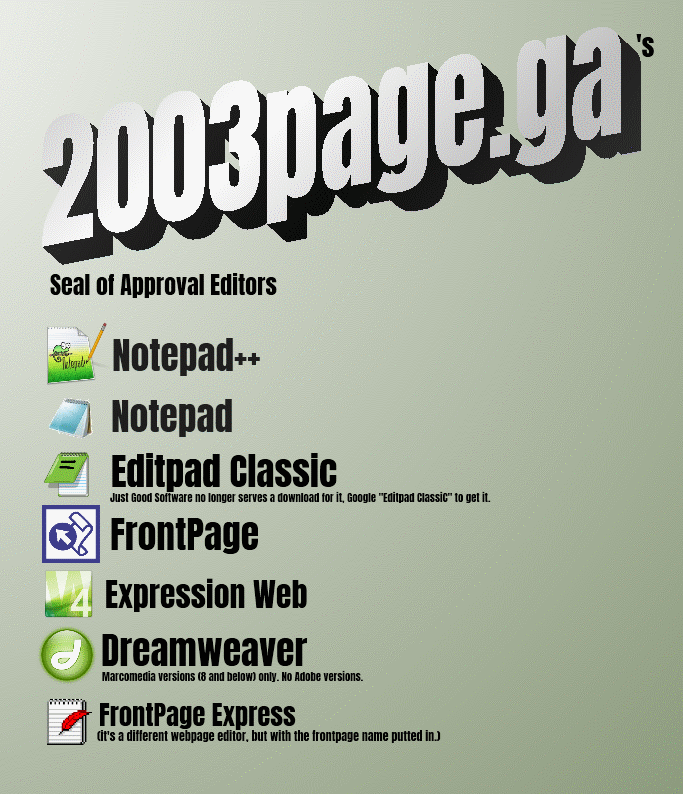
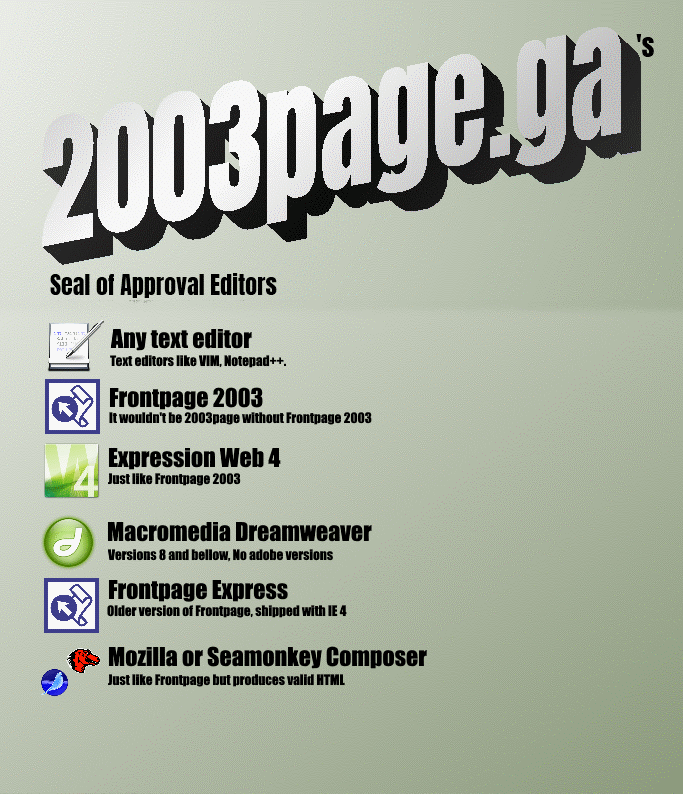
Updated Seal of Approval stuff

Changed region(s): [[0.0307, 0.3929, 0.7379, 0.937], [0.9224, 0.9975, 0.9531, 1.0]]

diff --git a/misc/promotionalmaterial/sealofapproval/index.htm b/misc/promotionalmaterial/sealofapproval/index.htm
@@ -11,7 +11,7 @@ Editors</font></b></p>
 <p align="center"><font color="#FFFFFF">Nintendo has that, so, why not? /s</font></p>
 <p align="center">&nbsp;</p>
 <p align="center">&nbsp;</p>
-<p align="center"><a href="https://notepad-plus-plus.org/downloads/">
-<img border="0" src="index.1.jpg"></a><a href="http://www.tucows.com/preview/194615/Edit-Pad-Classic"><img border="0" src="index.2.gif"></a><a href="https://www.kean.edu/~ocisweb/downloads/FrontPage_2003/"><img border="0" src="index.3.jpg"></a><a href="https://www.microsoft.com/en-ca/download/details.aspx?id=36179"><img border="0" src="index.4.jpg"></a><a href="http://www.oldversion.com/windows/macromedia-dreamweaver-8"><img border="0" src="index.5.jpg"></a><a href="http://www.stormthecastle.com/mainpages/frontpage_express/frontpage_express_index.htm"><img border="0" src="index.6.gif"></a></p>
+<p align="center">
+<img border="0" src="index.1.gif" alt="Any text editor"><a href="https://www.kean.edu/~ocisweb/downloads/FrontPage_2003/"><img border="0" src="index.2.jpg" alt="Frontpage 2003"></a><a href="https://www.microsoft.com/en-ca/download/details.aspx?id=36179"><img border="0" src="index.3.jpg" alt="Expression Web 4"></a><a href="http://www.oldversion.com/windows/macromedia-dreamweaver-8"><img border="0" src="index.4.jpg" alt="Macromedia Dreamweaver (No Adobe versions)"></a><a href="http://www.stormthecastle.com/mainpages/frontpage_express/frontpage_express_index.htm"><img border="0" src="index.5.gif" alt="Frontpage Express"></a><a href="http://www.seamonkey-project.org/"><img border="0" src="index.6.gif" alt="Mozilla or Seamonkey Composer"</a></p>
 
 </body>
